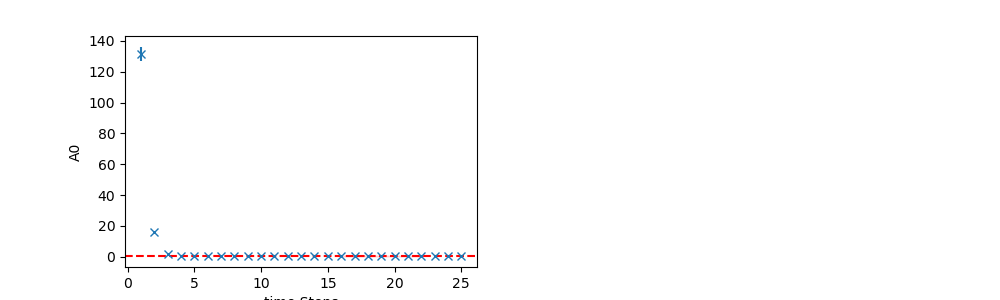
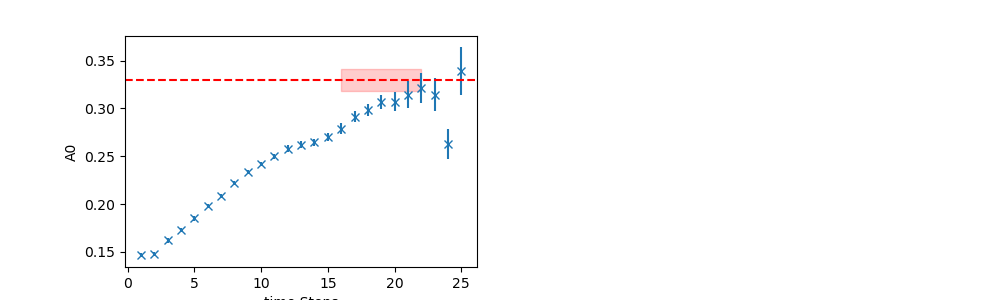
nsq5 without conf weird

diff --git a/M2/A0-Av-improved.py b/M2/A0-Av-improved.py
@@ -102,7 +102,8 @@ md0 = 0.9122552490234405
 pre = md0 / (2 * md * mb)
 
 #nconf=100
-nconf=889
+#nconf=889
+nconf=800
 dt=26
 ts=64
 

diff --git a/M2/A1-Av-improved.py b/M2/A1-Av-improved.py
@@ -48,7 +48,7 @@ def sum_with_exceptions_jack(lst,j,i):
 
 
 #########decide here which nsq
-nsq=1
+nsq=5
 ##########
 
 
